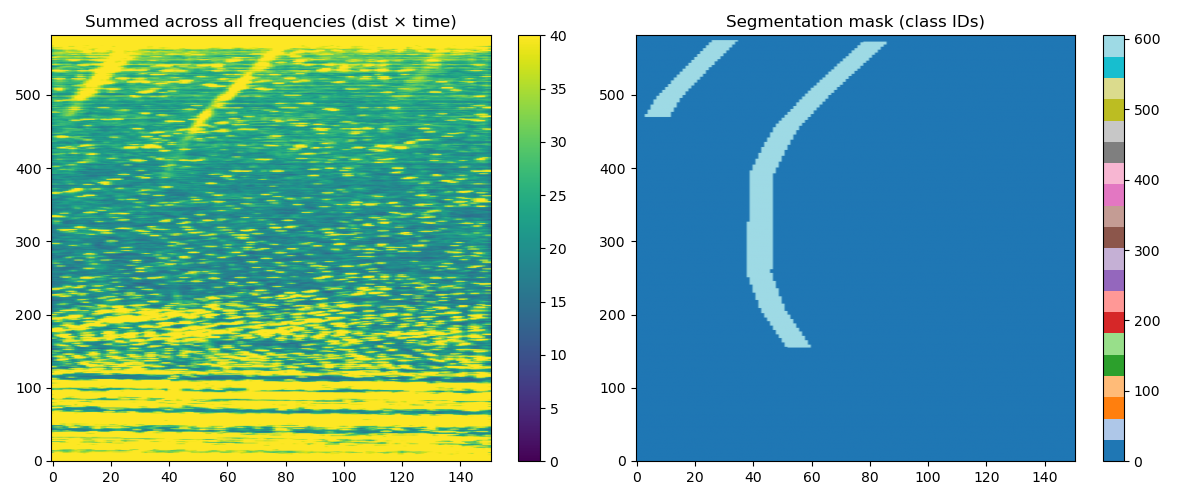
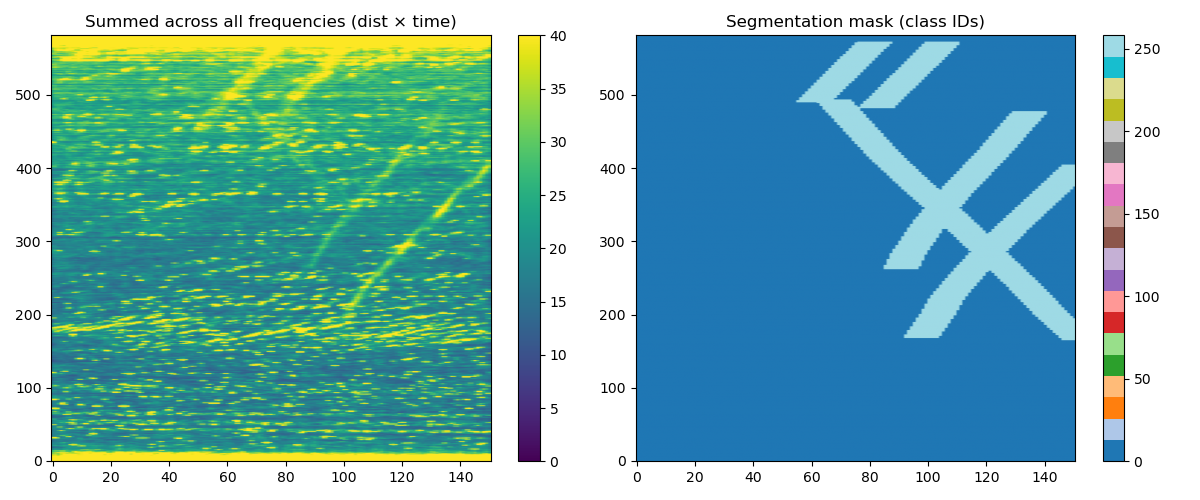
fixed issue with misaligned masks. Issue was in time shift inherent in STFT.

diff --git a/segment_data_prep/mask_interp.py b/segment_data_prep/mask_interp.py
@@ -39,7 +39,7 @@ window = np.hanning(n_fft).astype(np.float32)
 window = torch.tensor(window, dtype=torch.float32).to("cuda")
 
 # Mask generation settings:
-t_win = (.75, 1.5)
+t_win = (1, 3)
 gf_sigma=5.0
 tolerance = 0.1
 dilation_size = (53, 53) 
@@ -60,7 +60,6 @@ desc = """
 def generate_2D_mask(tx_img, x_extent, t_extent, x_lab, t_lab, 
                      t_win = (.5, 1.5), gf_sigma=5.0, tolerance = 0.1,
                      dilation_size = (53, 53), shaping_method = None):
-    
     """
     tx_img: 2D ndarray [x, t]
     x_extent: total distance extent in meters
@@ -137,61 +136,17 @@ def generate_2D_mask(tx_img, x_extent, t_extent, x_lab, t_lab,
         plt.savefig('test.png')
         return mask
 
-
-def map_mask_to_reduced_size(mask_orig, t_orig, x_orig, t_new, x_new):
-    """
-    Downsample integer detection-ID mask to match reduced space×time size.
-
-    Parameters
-    ----------
-    mask_orig : ndarray (n_x_orig, n_t_orig)
-        Original integer detection-number mask (0 = no detection).
-    t_orig : ndarray
-        Time coordinates of original frames (length n_t_orig).
-    x_orig : ndarray
-        Spatial coordinates of original channels (length n_x_orig).
-    t_new : ndarray
-        Time coordinates of reduced output (length n_t_new).
-    x_new : ndarray
-        Spatial coordinates of reduced output (length n_x_new).
-
-    Returns
-    -------
-    mask_new : ndarray (n_x_new, n_t_new)
-        Reduced mask, each pixel holding the most frequent detection number
-        from its corresponding original block (0 if no detection).
-    """
-    n_x_new = len(x_new)
-    n_t_new = len(t_new)
-    mask_new = np.zeros((n_x_new, n_t_new), dtype=mask_orig.dtype)
-
-    dx_new = (x_new[1] - x_new[0]) if n_x_new > 1 else x_orig[-1] - x_orig[0]
-    dt_new = (t_new[1] - t_new[0]) if n_t_new > 1 else t_orig[-1] - t_orig[0]
-
-    half_dx = dx_new / 2.0
-    half_dt = dt_new / 2.0
-
-    for ix_new, x_center in enumerate(x_new):
-        x_min = x_center - half_dx
-        x_max = x_center + half_dx
-        idx_x = np.where((x_orig >= x_min) & (x_orig < x_max))[0]
-
-        for it_new, t_center in enumerate(t_new):
-            t_min = t_center - half_dt
-            t_max = t_center + half_dt
-            idx_t = np.where((t_orig >= t_min) & (t_orig < t_max))[0]
-
-            if len(idx_x) > 0 and len(idx_t) > 0:
-                block = mask_orig[np.ix_(idx_x, idx_t)]
-                # Find most frequent nonzero detection ID
-                values, counts = np.unique(block[block > 0], return_counts=True)
-                if len(values) > 0:
-                    mask_new[ix_new, it_new] = values[np.argmax(counts)]
-                # else remains 0 (no detection)
-
-    return mask_new
-
-
+def generate_2D_mask_interp(tx_img_red, x_reduced, t_reduced, x_lab, t_lab,     
+                    t_win = (.5, 1.5), gf_sigma=5.0, tolerance = 0.1,
+                    dilation_size = (53, 53), shaping_method = None):
+    xi = np.interp(x_reduced, x_lab)
+    ti = np.interp(x_reduced, x_lab)
+    img_input = np.sum(tx_img_red, axis=0)
+    
+    mask = generate_2D_mask(img_input, x_extent, t_extent, x_lab, t_lab, 
+                     t_win, gf_sigma, tolerance,
+                     dilation_size, shaping_method)
+    return mask
 def compute_spectrograms(tx, fs, n_fft=256, hop_length=None, window=None):
     # Select device automatically
     device = torch.device("cuda" if torch.cuda.is_available() else "cpu")
@@ -213,16 +168,13 @@ def compute_spectrograms(tx, fs, n_fft=256, hop_length=None, window=None):
         return_complex=True   # complex tensor for easy magnitude/phase
     )
 
+    # Convert to magnitude if desired
     specs_mag = specs.abs()
+
+    # If you want result back on CPU
     specs_mag = specs_mag.cpu()
 
-    # Frequency bins (real input, one-sided spectrum)
-    freqs = np.arange(0, n_fft // 2 + 1) * fs / n_fft
-
-    # Time stamps for each STFT column
-    times = np.arange(specs.size(-1)) * hop_length / fs
-
-    return times, freqs, specs_mag
+    return specs_mag
 
 def save_settings(n_fft, f_band, hop_length, t_win, gf_sigma, tolerance,
                   dilation_size, shaping_method, pool_method, pool_size,
@@ -331,9 +283,11 @@ labels = pd.read_sql_query(query, conn)
 datasets = labels['dataset'].unique()
 det_num = 0
 for dataset in datasets:
+
     rows_in_dataset = labels[labels['dataset'] == dataset]
     dataset_path = os.path.normpath(os.path.join(data_path, dataset))
-   
+
+    # load settings for this dataset:
     settings = io.load_settings_preprocessed_h5(os.path.join(dataset_path, 'settings.h5'))  
     nonzeros = settings['rehydration_info']['nonzeros_mask']
     nonzeros = settings['rehydration_info']['nonzeros_mask']
@@ -367,68 +321,29 @@ for dataset in datasets:
     previous_labels = {'x_m': [], 't_s': [], 'det_num': []}
 
     for file in source_files: 
-        data_filepath = os.path.join(dataset_path, file)
-        if not os.path.isfile(data_filepath):
-            # some labels erroneous -- don't correspond to actual files. Skip.
-            continue
-        
         # load tx data
-        fk_dehyd, timestamp = io.load_preprocessed_h5(data_filepath)        
+        fk_dehyd, timestamp = io.load_preprocessed_h5(os.path.join(dataset_path, file))        
         tx = 1e9 * io.rehydrate(fk_dehyd, nonzeros, original_shape, return_format='tx')
-
-        x_extent = tx.shape[0]*dx
-        t_extent = tx.shape[1]/fs
-
-        mask = np.zeros_like(tx)
-        
-        # First, add any previous labels carried over from last file
-        if previous_labels['x_m']:
-            for x_m_prev, t_s_prev, det_num_prev in zip(previous_labels['x_m'], previous_labels['t_s'], previous_labels['det_num']):
-                det_mask = generate_2D_mask(
-                    tx, x_extent=x_extent, t_extent=t_extent,
-                    x_lab=x_m_prev, t_lab=t_s_prev,
-                    t_win=t_win, gf_sigma=gf_sigma, tolerance=tolerance,
-                    dilation_size=dilation_size, shaping_method=shaping_method
-                )
-                mask[det_mask.astype(bool)] = det_num_prev
-            # Clear after adding
-            previous_labels = {'x_m': [], 't_s': [], 'det_num': []}
-
-        rows_in_file = rows_in_dataset[rows_in_dataset['source_file'] == file]
-        iter_next_window = 0
-        for i, row in rows_in_file.iterrows():
-            det_num += 1
-            x_m = np.array(ast.literal_eval(row['x_m']))
-            t_s = np.array(ast.literal_eval(row['t_s'])) + row['apex_time'] - timestamp
-
-            idx_next_window = t_s > t_extent
-            if any(idx_next_window):
-                previous_labels['t_s'].append(t_s[idx_next_window] - t_extent)
-                previous_labels['x_m'].append(x_m[idx_next_window])
-                previous_labels['det_num'].append(det_num)
-                x_m = x_m[~idx_next_window]
-                t_s = t_s[~idx_next_window]
-            det_mask = generate_2D_mask(tx, x_extent=x_extent, t_extent=t_extent, 
-                                        x_lab=x_m, t_lab=t_s,
-                                        t_win=t_win, gf_sigma=gf_sigma, tolerance=tolerance,
-                                        dilation_size=dilation_size, shaping_method=shaping_method)
-            mask[det_mask.astype(bool)] = det_num
     
         ##### calc spectrograms and reshape data ######
-        t_new, f_new, specs = compute_spectrograms(tx, fs, n_fft=n_fft, hop_length=hop_length, window=None)
+        specs = compute_spectrograms(tx, fs, n_fft=256, hop_length=hop_length, window=None)
        
         ####### dimension reduction #########
+        specs = specs.abs().squeeze().contiguous()  # linear amplitude, remove dims
+
         group_size = pool_size
-        n_xseg, n_freq_bins, n_time_frames = specs.shape
-        x_orig_trimmed = np.arange(0, n_xseg)*dx
+        n_channels, n_freq_bins, n_time_frames = specs.shape
+        f_new = np.fft.rfftfreq(n_fft, d=1/fs)
+        x_new = np.arange(0, n_channels)*dx
+        t_new = np.arange(0, n_time_frames)*dt_new
                         
-        # Trim channels so they can be grouped evenly
-        remainder = n_xseg % group_size
+        # Trim channels so we can group evenly
+        remainder = n_channels % group_size
         if remainder != 0:
-            specs = specs[:n_xseg - remainder]
+            specs = specs[:n_channels - remainder]
             mask = mask[:mask.shape[0] - remainder, :]
-            n_xseg = specs.shape[0]
-            x_orig_trimmed = x_orig_trimmed[:n_xseg - remainder]
+            n_channels = specs.shape[0]
+            x_new = x_new[:n_channels - remainder]
 
         # truncate in frequency dimension 
         band_idx = np.where((f_new >= f_band[0]) & (f_new <= f_band[1]))[0]
@@ -437,7 +352,7 @@ for dataset in datasets:
         n_freq_bins = len(f_new)
         
         # Reshape to (n_groups, group_size, freq, time) and max over group_size
-        n_groups = n_xseg // group_size
+        n_groups = n_channels // group_size
         specs_grouped = specs.view(n_groups, group_size, n_freq_bins, n_time_frames)
         
         if pool_method=='max':
@@ -450,7 +365,9 @@ for dataset in datasets:
             pooled = specs_grouped.median(dim=1).values 
             pooled = pooled.to('cpu').numpy()
         
-        if True: # plotting some slices. Set to false for full run
+        x_new = np.arange(0, pooled.shape[1])*x_new.max()/pooled.shape[1]
+        
+        if False: # plotting some slices. Set to false for full run
             # Pick indices to slice at
             freq_idx = np.argmin(np.abs(f_new - 25))
             chan_group_idx = 400          # example channel group
@@ -501,16 +418,16 @@ for dataset in datasets:
         t_orig_coords = np.arange(mask.shape[1]) * dt       # seconds for each time pixel
         x_orig_coords = np.arange(mask.shape[0]) * dx       # meters for each channel
 
-        # Compute center position for each group
-        x_new = np.array([
-            x_orig_trimmed[i * group_size : (i + 1) * group_size].mean()
-            for i in range(n_groups)
-        ])        
-        
+        # Reduced coords from pooled data
+        t_new_coords = np.arange(pooled.shape[2]) * dt_new
+        x_new_coords = np.arange(pooled.shape[0]) * (x_extent / pooled.shape[0])
+
+        # transpose pooled
+
         # map mask to new dimensions
         mask_reduced = map_mask_to_reduced_size(mask, 
                                         t_orig_coords, x_orig_coords,
-                                        t_new, x_new)
+                                        t_new_coords, x_new_coords)
 
         # force mask to be same dimensions as pooled data:
         x_dif = mask_reduced.shape[0] - pooled.shape[0] 

diff --git a/segment_data_prep/examine_data.py b/segment_data_prep/examine_data.py
@@ -43,25 +43,32 @@ def plot_sample(sample_path, save_name='saved_data.png'):
     plt.tight_layout()
     plt.savefig(save_name)
 
-def plot_overlay(sample_path):
+def plot_overlay(sample_path, save_name):
     data = torch.load(sample_path)
     x_np = data["input"].numpy()
     y_np = data["mask"].numpy()
+    mask = y_np>0
 
-    freq_idx = x_np.shape[0] // 2   # middle frequency
-    img_input = x_np[freq_idx, :, :]
+    img_input = np.sum(x_np, axis=0)
 
     plt.figure(figsize=(6, 5))
-    plt.imshow(img_input, origin='lower', aspect='auto', cmap='gray')
-    plt.imshow(np.ma.masked_where(y_np == 0, y_np), origin='lower', aspect='auto', cmap='autumn', alpha=0.5)
-    plt.title(f"Overlay: Input channel {freq_idx} + mask")
+    plt.imshow(img_input*mask, origin='lower', aspect='auto',
+               cmap='viridis', vmin=0, vmax=40)
+    plt.title(f"Overlay")
     plt.colorbar()
-    plt.savefig('with_overlay.png')
+    plt.savefig(save_name)
 
 # Load and plot a few files
-sample_files = glob.glob("/mnt/class_data/esnyder/segmentation_data/hugging_masks_data/*.pt")[:3]  # first 3 files
+sample_files = glob.glob("/mnt/class_data/esnyder/segmentation_data/fixed_width/*.pt")[100:103]  # first 3 files
 iter = 0
 for f in sample_files:
     save_name = 'saved_data_' + str(iter) + '.png'
     plot_sample(f, save_name)
     iter += 1
+    
+
+for f in sample_files:
+    save_name = 'saved_data_overlayed' + str(iter) + '.png'
+    plot_overlay(f, save_name)
+    iter += 1
+    
